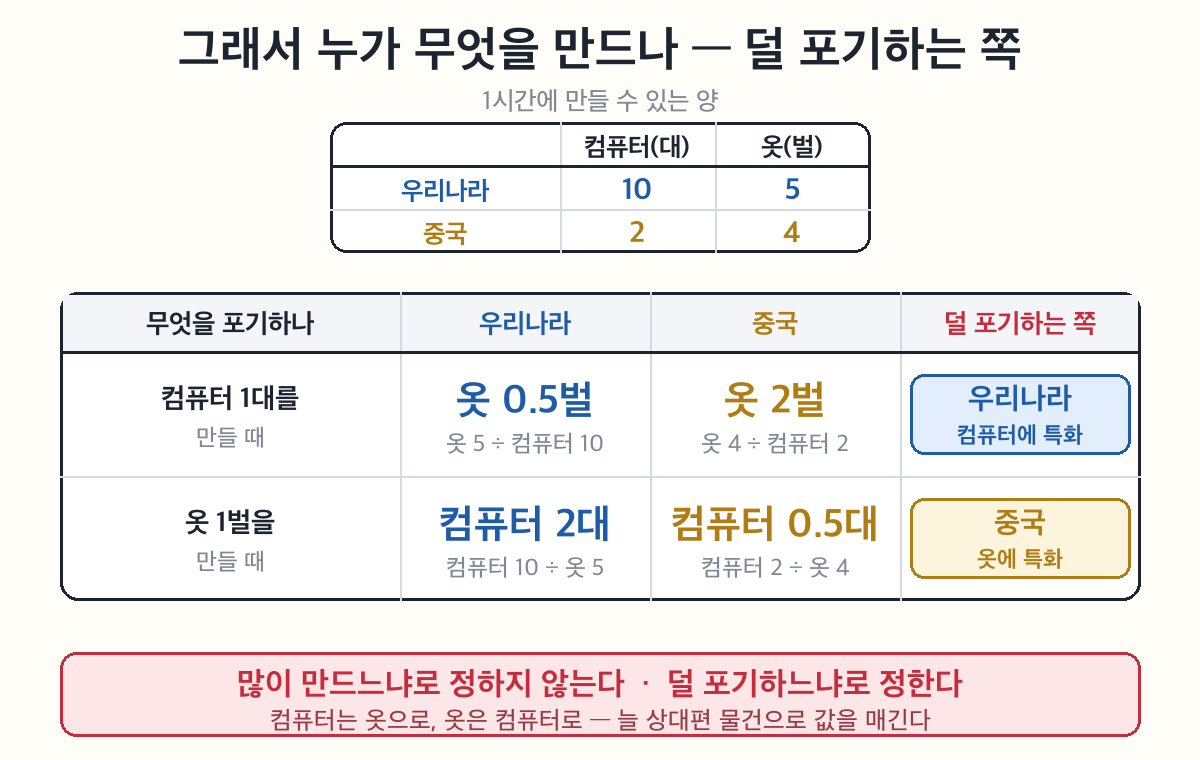
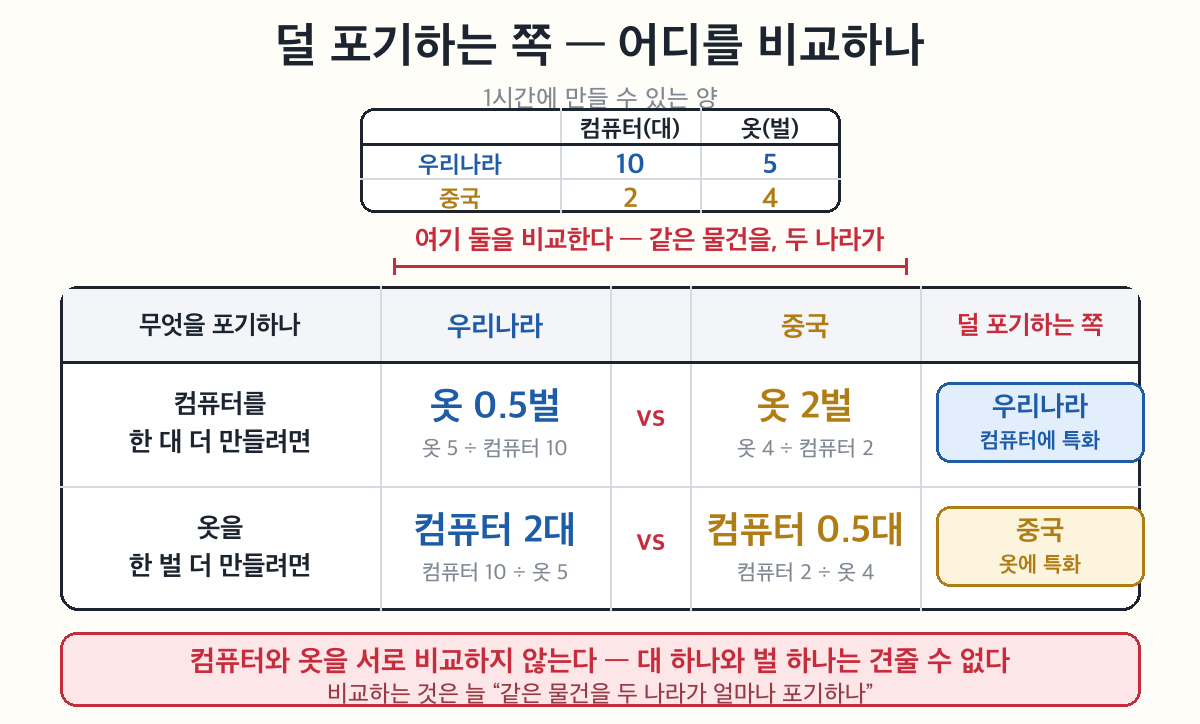
5-4 오독 경로 차단 — 판정표 v3 + 경고 + 활동 자가점검
천대현 발견: 판정표를 가로로 읽고 큰 숫자를 고르면
('컴퓨터 1 > 옷 0.5니까 컴퓨터') 본문에서는 두 번 다 정답이 나온다.
그래서 오개념이 한 번도 안 걸리고 활동에서 무너진다 —
가나라(자동차1 vs 쌀2 → 쌀, 정답 자동차 ❌)·나나라(쌀1 vs 자동차0.25 → 쌀 ✅).
둘 다 '쌀'이 나오는 모순. '활동이 본문보다 어렵다'의 진짜 원인이 이것이다.

① 판정표 도식 v3
   - 행 조건을 말로 풀어 숫자 티 제거 ('컴퓨터 1대를 만들 때' → '컴퓨터를 한 대 더 만들려면')
   - 우리/중국 사이에 vs 열 신설 + 상단 브래킷 '여기 둘을 비교한다 — 같은 물건을, 두 나라가'
   - 하단 경고 '컴퓨터와 옷을 서로 비교하지 않는다 — 대 하나와 벌 하나는 견줄 수 없다'
② 도식 뒤 ⚠ 오독 차단 콜아웃 한 덩이
③ 활동 3번 뒤 🔎 자가 점검 한 줄 — '두 답이 같은 나라면 방법이 틀린 거야'
   2재화 2국가에서 비교우위는 반드시 하나씩 갈린다는 성질을 이용.
   오답이 스스로 드러나므로 설명을 늘리지 않고 오개념을 잡는다.

정답편에 오독 경로 수치 검증 전체 기록.
빈칸 10 · OX 5 · act-1~10 불변.

Claude-Session: https://claude.ai/code/session_0112jfuNjXUAgEuhZG5Yg8vB

Changed region(s): [[0.0308, 0.1215, 0.9558, 1.0], [0.1542, 0.0304, 0.8633, 0.0912]]

diff --git a/worksheets/5-4차시_국제거래와비교우위_개념편.html b/worksheets/5-4차시_국제거래와비교우위_개념편.html
@@ -283,7 +283,9 @@ blockquote {
 <br>
 <p>이제 두 나라를 나란히 놓고 따져 보자.</p>
 <br>
-<figure class="ws-fig"><img src="images/v5-comparative-advantage.png" alt="비교 우위 판정표. 컴퓨터 1대를 만들 때 포기하는 옷은 우리나라 0.5벌, 중국 2벌이라 컴퓨터는 우리나라가 비교 우위. 옷 1벌을 만들 때 포기하는 컴퓨터는 우리나라 2대, 중국 0.5대라 옷은 중국이 비교 우위." loading="lazy"><figcaption>비교 우위 판정표. 컴퓨터 1대를 만들 때 포기하는 옷은 우리나라 0.5벌, 중국 2벌이라 컴퓨터는 우리나라가 비교 우위. 옷 1벌을 만들 때 포기하는 컴퓨터는 우리나라 2대, 중국 0.5대라 옷은 중국이 비교 우위.</figcaption></figure>
+<figure class="ws-fig"><img src="images/v5-comparative-advantage.png" alt="비교 우위 판정표. 컴퓨터를 한 대 더 만들려면 우리나라는 옷 0.5벌, 중국은 옷 2벌을 포기한다. 옷을 한 벌 더 만들려면 우리나라는 컴퓨터 2대, 중국은 0.5대를 포기한다. 비교하는 것은 물건끼리가 아니라 같은 물건을 두 나라가 얼마나 포기하는지다." loading="lazy"><figcaption>비교 우위 판정표. 컴퓨터를 한 대 더 만들려면 우리나라는 옷 0.5벌, 중국은 옷 2벌을 포기한다. 옷을 한 벌 더 만들려면 우리나라는 컴퓨터 2대, 중국은 0.5대를 포기한다. 비교하는 것은 물건끼리가 아니라 같은 물건을 두 나라가 얼마나 포기하는지다.</figcaption></figure>
+<br>
+<blockquote>⚠ <strong>이렇게 읽으면 안 돼</strong> — <em>"컴퓨터 1이 옷 0.5보다 크니까 컴퓨터."</em> <strong>컴퓨터랑 옷은 비교가 안 돼.</strong> 대 하나랑 벌 하나 중에 뭐가 더 크겠니? 비교하는 건 <strong>우리나라 0.5벌 ↔ 중국 2벌</strong>, 그러니까 <em>같은 옷을 두 나라가 얼마나 포기하나</em>야.</blockquote>
 <br>
 <blockquote>🎙 <strong>잠깐 — "덜 포기하는 쪽이 만든다"가 왜 이득일까?</strong> 여기서 많이 헷갈려. <em>누가 선택하는 건데? 누구한테 이득인데?</em> 질문을 아예 바꿔 보자 — <strong>"컴퓨터 1대가 더 필요한데, 누구한테 시킬까?"</strong></blockquote>
 <br>
@@ -330,6 +332,7 @@ blockquote {
 <blockquote>💡 힌트 — <strong>자동차 1대“당”</strong>을 물었으니 <strong>자동차 수로</strong> 나눈다. 가나라는 `쌀 12 ÷ 자동차 6`.</blockquote>
 <br>
 <p><strong>3.</strong> 그럼 <strong>자동차에 비교 우위</strong>가 있는 나라는? <input type="text" class="blank-input activity-input no-score" data-id="act-4" data-label="3. 그럼 자동차에 비교 우위가 있는 나라는? · 쌀은?" style="width:160px" placeholder="">  ·  <strong>쌀</strong>은? <input type="text" class="blank-input activity-input no-score" data-id="act-5" data-label="3. 그럼 자동차에 비교 우위가 있는 나라는? · 쌀은?" style="width:160px" placeholder=""></p>
+<blockquote>🔎 <strong>답 쓰고 나서 확인해 봐</strong> — 두 답이 <strong>같은 나라</strong>로 나왔다면 방법이 틀린 거야. 비교 우위는 <strong>반드시 하나씩 나눠 갖게</strong> 돼 있거든.</blockquote>
 <br>
 <p><strong>4.</strong> 두 나라가 각자 비교 우위 상품에 특화해서 바꾸면, 두 나라가 <strong>쓸 수 있는 물건의 양</strong>은 어떻게 될까? <strong>한 문장으로</strong> 써 보자.</p>
 <textarea class="essay-input" data-id="essay-1" data-label="✏ 활동 — 비교 우위 찾기 (시험 단골 유형)" placeholder="자기 생각을 자유롭게 써 보세요"></textarea>

diff --git a/worksheets/5-4차시_국제거래와비교우위_개념편_복습용.html b/worksheets/5-4차시_국제거래와비교우위_개념편_복습용.html
@@ -283,7 +283,9 @@ blockquote {
 <br>
 <p>이제 두 나라를 나란히 놓고 따져 보자.</p>
 <br>
-<figure class="ws-fig"><img src="images/v5-comparative-advantage.png" alt="비교 우위 판정표. 컴퓨터 1대를 만들 때 포기하는 옷은 우리나라 0.5벌, 중국 2벌이라 컴퓨터는 우리나라가 비교 우위. 옷 1벌을 만들 때 포기하는 컴퓨터는 우리나라 2대, 중국 0.5대라 옷은 중국이 비교 우위." loading="lazy"><figcaption>비교 우위 판정표. 컴퓨터 1대를 만들 때 포기하는 옷은 우리나라 0.5벌, 중국 2벌이라 컴퓨터는 우리나라가 비교 우위. 옷 1벌을 만들 때 포기하는 컴퓨터는 우리나라 2대, 중국 0.5대라 옷은 중국이 비교 우위.</figcaption></figure>
+<figure class="ws-fig"><img src="images/v5-comparative-advantage.png" alt="비교 우위 판정표. 컴퓨터를 한 대 더 만들려면 우리나라는 옷 0.5벌, 중국은 옷 2벌을 포기한다. 옷을 한 벌 더 만들려면 우리나라는 컴퓨터 2대, 중국은 0.5대를 포기한다. 비교하는 것은 물건끼리가 아니라 같은 물건을 두 나라가 얼마나 포기하는지다." loading="lazy"><figcaption>비교 우위 판정표. 컴퓨터를 한 대 더 만들려면 우리나라는 옷 0.5벌, 중국은 옷 2벌을 포기한다. 옷을 한 벌 더 만들려면 우리나라는 컴퓨터 2대, 중국은 0.5대를 포기한다. 비교하는 것은 물건끼리가 아니라 같은 물건을 두 나라가 얼마나 포기하는지다.</figcaption></figure>
+<br>
+<blockquote>⚠ <strong>이렇게 읽으면 안 돼</strong> — <em>"컴퓨터 1이 옷 0.5보다 크니까 컴퓨터."</em> <strong>컴퓨터랑 옷은 비교가 안 돼.</strong> 대 하나랑 벌 하나 중에 뭐가 더 크겠니? 비교하는 건 <strong>우리나라 0.5벌 ↔ 중국 2벌</strong>, 그러니까 <em>같은 옷을 두 나라가 얼마나 포기하나</em>야.</blockquote>
 <br>
 <blockquote>🎙 <strong>잠깐 — "덜 포기하는 쪽이 만든다"가 왜 이득일까?</strong> 여기서 많이 헷갈려. <em>누가 선택하는 건데? 누구한테 이득인데?</em> 질문을 아예 바꿔 보자 — <strong>"컴퓨터 1대가 더 필요한데, 누구한테 시킬까?"</strong></blockquote>
 <br>
@@ -330,6 +332,7 @@ blockquote {
 <blockquote>💡 힌트 — <strong>자동차 1대“당”</strong>을 물었으니 <strong>자동차 수로</strong> 나눈다. 가나라는 `쌀 12 ÷ 자동차 6`.</blockquote>
 <br>
 <p><strong>3.</strong> 그럼 <strong>자동차에 비교 우위</strong>가 있는 나라는? <input type="text" class="blank-input activity-input no-score" data-id="act-4" data-label="3. 그럼 자동차에 비교 우위가 있는 나라는? · 쌀은?" style="width:160px" placeholder="">  ·  <strong>쌀</strong>은? <input type="text" class="blank-input activity-input no-score" data-id="act-5" data-label="3. 그럼 자동차에 비교 우위가 있는 나라는? · 쌀은?" style="width:160px" placeholder=""></p>
+<blockquote>🔎 <strong>답 쓰고 나서 확인해 봐</strong> — 두 답이 <strong>같은 나라</strong>로 나왔다면 방법이 틀린 거야. 비교 우위는 <strong>반드시 하나씩 나눠 갖게</strong> 돼 있거든.</blockquote>
 <br>
 <p><strong>4.</strong> 두 나라가 각자 비교 우위 상품에 특화해서 바꾸면, 두 나라가 <strong>쓸 수 있는 물건의 양</strong>은 어떻게 될까? <strong>한 문장으로</strong> 써 보자.</p>
 <textarea class="essay-input" data-id="essay-1" data-label="✏ 활동 — 비교 우위 찾기 (시험 단골 유형)" placeholder="자기 생각을 자유롭게 써 보세요"></textarea>

diff --git a/worksheets/5-4차시_국제거래와비교우위_개념편_정답.html b/worksheets/5-4차시_국제거래와비교우위_개념편_정답.html
@@ -242,6 +242,14 @@ blockquote {
 <p>- <strong>비교 우위(기회비용)</strong>: 컴퓨터 1대당 포기하는 옷 = 우리 <strong>5÷10 = 0.5벌</strong> / 중국 <strong>4÷2 = 2벌</strong> → <strong>컴퓨터는 우리나라</strong>. 옷 1벌당 포기하는 컴퓨터 = 우리 <strong>2대</strong> / 중국 <strong>0.5대</strong> → <strong>옷은 중국</strong>.</p>
 <p>- <strong>결론</strong>: 우리는 컴퓨터 특화·수출, 중국은 옷 특화·수출.</p>
 <br>
+<blockquote>🔴 <strong>오독 경로 — 이걸 모르면 활동에서 무너진다</strong> (2026-09-02 천대현 발견·수치 검증 완료)</blockquote>
+<blockquote>학생이 판정표를 <strong>가로로 읽고 큰 숫자를 고를 수 있다</strong> — <em>"컴퓨터 1이 옷 0.5보다 크니까 컴퓨터."</em></blockquote>
+<blockquote>🔴 <strong>그런데 본문에서는 두 번 다 정답이 나온다.</strong> 우리나라(컴퓨터 1 vs 옷 0.5 → 컴퓨터 ✅) · 중국(옷 1 vs 컴퓨터 0.5 → 옷 ✅). <strong>그래서 오개념이 한 번도 안 걸린다.</strong></blockquote>
+<blockquote>그리고 <strong>활동에서 무너진다</strong> — 가나라(자동차 1 vs 쌀 2 → <em>쌀</em>, 정답은 자동차 ❌) · 나나라(쌀 1 vs 자동차 0.25 → 쌀 ✅). <strong>둘 다 '쌀'이 나오는 모순.</strong> 학생은 <em>"방법은 똑같이 썼는데 왜 안 되지"</em> 가 된다.</blockquote>
+<blockquote>⭐ <strong>즉 '활동이 본문보다 어렵다'는 호소의 진짜 원인이 이것</strong>이다. 숫자가 어려워서가 아니라 <strong>본문에서 통하던 방법이 깨져서</strong>다.</blockquote>
+<blockquote>⭐ <strong>판서에서 반드시 못 박을 것</strong> — <em>"컴퓨터랑 옷은 비교가 안 된다. 대 하나와 벌 하나 중 뭐가 크냐?"</em> 비교는 늘 <strong>같은 물건을 두 나라가 얼마나 포기하나</strong>. 도식 v3에 브래킷(`여기 둘을 비교한다`)·`vs`·하단 경고를 넣어 두었다.</blockquote>
+<blockquote>🔎 <strong>활동 3번 뒤 자가 점검을 신설했다</strong> — <em>"두 답이 같은 나라면 방법이 틀린 거야."</em> 2재화 2국가에서 비교 우위는 <strong>반드시 하나씩 갈린다</strong>(기회비용이 완전히 같은 경우만 예외이나 그런 문항은 내지 않는다). <strong>오답이 스스로 드러나게</strong> 하는 장치라 설명을 늘리지 않고 오개념을 잡는다.</blockquote>
+<br>
 <blockquote>🎯 <strong>여기가 핵심 — 최다 오개념!</strong> <em>절대 우위(많이 만듦) ≠ 비교 우위(덜 포기함)</em>. 서술형·자료제시형 단골.</blockquote>
 <blockquote>⭐ <strong>판서 순서를 지킬 것</strong> — ①표를 먼저 띄우고 <em>"둘 다 우리가 이기네?"</em> 로 절대 우위를 확인시킨 뒤, ②<em>"그럼 둘 다 만들면 되나?"</em> 로 막고, ③그때 <strong>기회비용</strong>을 꺼낸다. 순서를 바꾸면 학생이 두 개념을 뒤섞는다.</blockquote>
 <blockquote>⭐ <strong>④나눗셈은 칠판에 세 줄로 유도할 것</strong> (2026-08-27 신설) — `컴퓨터 10대 또는 옷 5벌` → `컴퓨터 10대 = 옷 5벌` → 양쪽 ÷10 → `컴퓨터 1대 = 옷 0.5벌`. <strong>나눗셈을 규칙으로 주지 말고 등식에서 뽑아낼 것.</strong> 이 세 줄이 첫 번째 도식 그대로다.</blockquote>
